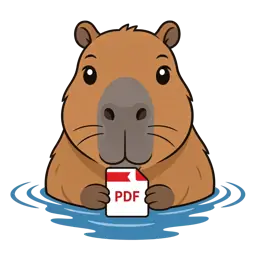
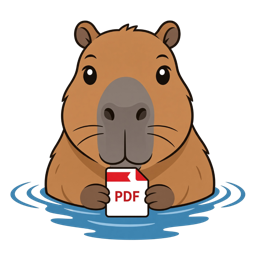
Use the free-utils.com homepage PNG as the company mark
Replace the store listing logo with public/brand-logo.png from AndrewJesse/free-utils.com and keep the trash-can action icon.

diff --git a/store-listing/UPLOAD.md b/store-listing/UPLOAD.md
@@ -40,7 +40,7 @@ Upload these files from `store-listing/`. Sizes match the [store image requireme
 
 Upload the screenshots in that order: the toolbar icon, the popup with Clear This Tab's Cache and Settings, the Settings menu, then the green check after a clear. They were captured from the extension running in Chrome on https://example.com.
 
-Use `store-icon-128.png` for the store icon. It is the grey trash can with an orange flame, the same icon Chrome shows on the toolbar. Do not upload `free-utils-capybara.png` as the store icon. That file is the Free-Utils company mark from https://free-utils.com/brand-logo.webp. The site uses the capybara as the company mark, not as this extension's icon. The promo tiles include it only as that company mark.
+Use `store-icon-128.png` for the store icon. It is the grey trash can with an orange flame, the same icon Chrome shows on the toolbar. Do not upload `free-utils-capybara.png` as the store icon. That file is the Free-Utils company mark, `public/brand-logo.png` from the free-utils.com source repository (AndrewJesse/free-utils.com). The site uses the capybara as the company mark, not as this extension's icon. The promo tiles include it only as that company mark.
 
 ## 3. Privacy
 

diff --git a/store-listing/LISTING.md b/store-listing/LISTING.md
@@ -44,4 +44,4 @@ Permissions stay on your device. activeTab reads the current tab when you open t
 
 The store icon is `store-icon-128.png`. It is the extension's grey trash can with an orange flame, the same artwork as the toolbar icon in the package.
 
-`free-utils-capybara.png` is the company mark from https://free-utils.com/brand-logo.webp. free-utils.com uses that capybara as the Free-Utils mark, not as the icon for this extension, so it is not the store icon. The small promo tile and the marquee tile show the trash can as the product and the capybara as the company mark.
+`free-utils-capybara.png` is the company mark, the file `public/brand-logo.png` from the free-utils.com source repository (AndrewJesse/free-utils.com). free-utils.com uses that capybara as the Free-Utils mark, not as the icon for this extension, so it is not the store icon. The small promo tile and the marquee tile show the trash can as the product and the capybara as the company mark.
